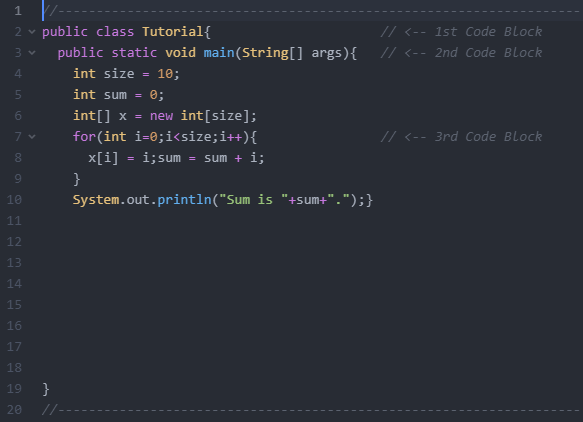
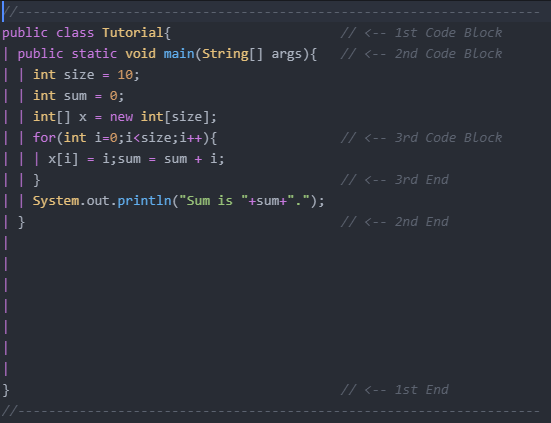
Module 1 Update

diff --git a/module1/module1.5.html b/module1/module1.5.html
@@ -1,85 +1,41 @@
 <!DOCTYPE html>
 <html lang="en">
 <head>
-<title>Open Fuego</title>
+<title>Code Structure</title>
 <meta charset="UTF-8">
 <meta name="viewport" content="width=device-width, initial-scale=1">
 <link rel="stylesheet" type="text/css" href="../style.css">
+</head>
 
-
-
-<script src="../codemirror/lib/codemirror.js"></script>
-<link rel="stylesheet" href="../codemirror/lib/codemirror.css">
-<link rel="stylesheet" href="../codemirror/theme/midnight.css">
-<script src="../codemirror/mode/clike/clike.js"></script>
-
-
-
-
-</head>  
-
-<!--Looks like you're ready to get going on your webpage. Good luck. Let's remember a few basic things.
-
-1. If you haven't worked through one of our Open Fuego introductory assignmnets (Electrate Fuego or I-Am-A-Project-In-Becoming), please do so. It will give you the basic skills to use this tool.
-2. File Management. Keep your asset names simple and one word.
-3. Make sure your assets names/file type match your code.
-4. Describe all images for accesibility purposes.
-5. Consult W3 when our code is not working for you.
-6. Control Z, Control Z, Control Z
-7. Publish, share, spread the Fuego!-->
-
-<!--BTW. You can leave these hidden HTML text fields be, or delete them. They are but road signs, absent from the larger design-->
 
 <body>
 
-<div>
-    <h2>Spaghetti Code</h2>
+    <div>
+      <h1><a href="../index.html">Spaghetti Code</a></h1>
+      <h2><a href="module1.1.html">Code Structure</a></h2>
     </div>
-
 
 <div class="flex-container">
   <div class="flex-item-left">
        <br>
-   <img src="../images/hero.png" alt="describe the image HERE for accessibility purposes" style="max-width:100%">
+   <img class="center-image" style="width:90%" src="module1.5.png" alt="description" style="max-width:100%">
     </div>
 
 
-	<div class="flex-item-right">
-       <div style="text-align: left">
-			<h3>Code Structure</h3>
-			<h6>The first and most important part of code structure is the Open-Close Rule. Every time you create an opening tag, such as '(', '[', or '{', you must remember to close that tag with it's partner tag ')', ']', or '}'. Depending on what language you write in, different objects will use different tags to determine functionality, so don't worry about jargon. Just focus on the structure.
-				Every function call should have a set of parenthesis '()' directly after the call. If I have a function named "foo", I would call it by typing "foo(argument1, argument2, etc)".
-				You access an array by typing "arrayName[i]" where i is the position of the element you want to access.
-				Several objects like conditional statements and function bodies get sectioned into blocks by using curly braces "{}".
-				Putting this all together, I might write a function like this:
-			</h6>
-
-			<img src="module1img1.jpg" alt="tutorial code for generic function foo" style="max-width:100%">
-
-			<h6>Notice how each tag gets a closing tag. But we can make this code more readable if we add some alignment. Alignment impacts the readability of your code immensely. The general rule is to indent all code within a code block. A code block is determined by an opening and closing curly brace '{}'. So, to align foo in such a manner, I would do this: </h6>
-
-			<img src="module1img2.jpg" alt="tutorial code for generic function foo" style="max-width:100%">
-
-			<h6>The function definition for foo comes before the first curly brace, and the code within foo gets indented. Then the closing curly brace goes in the same column as foo, not indented. This should apply for any number of nested code blocks.</h6>
-			<h6>Take a look at the next code block:</h6>
-
-			<img src="module1img3.jpg" alt="tutorial code for a full program" style="max-width:100%">
-
-			<h6>Here, we used the foo function we defined before to create an array and do some computations with it. When you separate sections of code within a block, others will find an easier time understanding the flow of your code. The general order of sections should be as follows:
-				<ol>
-					<li>Declarations</li>
-					<li>Computations</li>
-					<li>Return</li>
-				</ol>
-				To stay even more structured, be sure to add lines of white space between any major computations you may be performing. By following this general order, you can keep your code easy to change and understand. Now, let's take a look at some bad code and see what needs fixed.
-			</h6>
-			<a href="module1Q1.html"><center><button>Click to Start Module 1</button></center></a>
-		</div>
-    </div>
+  <div class="flex-item-right">
+  <div style="text-align: left">
+   <h3>Spacing</h3>
+    <h6>Programmers use spacing to make their code more readable. Implementing proper spacing requires little effort, but makes code even easier to understand.</h6>
+    <h6>Line spacing denotes a separation of instructions using 'newline' characters (hitting Enter on the keybaord several times). Programmers should put space between any 'sets' of instructions with different purposes. Most often these purposes fall into categories like creating variables, naming a function, or performing computations. Each set of instructions should have space between them to further clarify which instructions belong together.</h6>
+    <h6>Now that we implemented proper spacing and indenting, the code looks clean and aesthetically pleasing. But, not everyone can understand what it does. Good programmers use comments to make code understandable. Let's take a look at good commenting next.
+      <a href="module1.6.html"><center><button>Continue</button></center></a>
+  </div>
+  </div>
 </div>
+<div class="textblock" style="text-align: left">
    <footer>
     <div class="container">
-      <p>Copyright John Pepling, 2021.</p>
+      <p>Copyright Pepling 2021.</p>
       </div>
   </footer>
   </body>

diff --git a/module1/module1.6.html b/module1/module1.6.html
@@ -18,26 +18,24 @@
 <div class="flex-container">
   <div class="flex-item-left">
        <br>
-   <img src="module1.1.jpg" alt="description" style="max-width:100%">
+   <img class="center-image" style="width:90%" src="module1.6.png" alt="description" style="max-width:100%">
     </div>
 
 
   <div class="flex-item-right">
   <div style="text-align: left">
-   <h3>What is Code Structure?</h3>
-    <h6>Code Structure represents the physical arrangement of code within a program. Spaghetti code does work sometimes, but nobody can read it. Proper code structure makes use of several key components to make code easy for anyone to read and understand, even people who have no programming knowledge.<br>The main topics are:</h6>
-      <ul>
-        <li>Code Blocks</li>
-        <li>Alignment</li>
-        <li>Spacing</li>
-        <li>Comments</li>
-      </ul>
-    <h6>This module will explain each of these ideas in more depth. Click "Continue" to start learning about code blocks!</h6>
-      <a href="module1.2.html"><center><button>Continue</button></center></a>
+   <h3>Comments</h3>
+    <h6>Programmers use comments to make their code more understandable. Comments are sections of text that a computer will ignore, but that humans can still read. The best comments reside in 2 places:</h6>
+    <ul>
+      <li>At the start of a program</li>
+      <li>At the start of a computation</li>
+    </ul>
+    <h6>Comments should explain, in general terms, what a piece of code is, what it does, and (if applicable) how to customize it. Comments at the start of the program should also include the name of the programmer, a general overview of what the program is, and what functions the program uses. Functions are just a series of instructions that take one or more inputs and return an output. Functions should also have a comment to explain what to input, what function does to that input, and what it outputs.<br><br>Notice that the comments still follow the rules for alignment and spacing. And comments to the side of code should still align.</h6>
+      <a href="module1.end.html"><center><button>Continue</button></center></a>
   </div>
   </div>
 </div>
-
+<div class="textblock" style="text-align: left">
    <footer>
     <div class="container">
       <p>Copyright Pepling 2021.</p>

diff --git a/module1/module1.4.html b/module1/module1.4.html
@@ -18,7 +18,7 @@
 <div class="flex-container">
   <div class="flex-item-left">
        <br>
-   <img style="width:100%" src="module1.4.png" alt="description" style="max-width:100%">
+   <img class="center-image" style="width:90%" src="module1.4.png" alt="description" style="max-width:100%">
     </div>
 
 
@@ -26,14 +26,10 @@
   <div style="text-align: left">
    <h3>Nested Code Blocks</h3>
     <h6>
-      The picture
-    </h6>
-    <ul>
-      <li>Write each instruction on a new line</li>
-      <li>Each nested code block gets an additional indentation</li>
-    </ul>
-    <h6>These rules are much easier to explain visually, so let's take a look at an example piece of code on the next page.</h6>
-      <a href="module1.4.html"><center><button>Continue</button></center></a>
+      The picture on the left depicts a very small sample of code with three blocks of code. In this particular language, curly braces determine code blocks. Notice an opening curly brace at the end of each line that starts a new code block. Every line after that curly brace gets indented (shown by '|') until that code block ends. And every time a new code block begins <emphasis>within</emphasis> a code block, you must indent again. Following this method, you can trace the start of a code block straight down to its closing tag.</h6>
+      <h6>Instructions nested within 1 code block get 1 indentation.<br>Instructions nested within 2 code blocks get 2 indentations.<br>etc.</h6>
+      <h6>But this code sample looks cramped. Programmers can still tell which instructions go to what code block, but we can improve it with spacing.
+      <a href="module1.5.html"><center><button>Continue</button></center></a>
   </div>
   </div>
 </div>

diff --git a/module1/module1.3.html b/module1/module1.3.html
@@ -26,16 +26,16 @@
   <div style="text-align: left">
    <h3>Alignment</h3>
     <h6>
-      Good programmers will always align their code blocks to make sure other programmers can visually understand which
-      instructions go together. A computer, reading the instructions, will simply skip any extra space and execute instructions
-      left to right, top to bottom. A programmer, however, cannot quickly grasp which order the instructions will execute unless
-      they align those instructions appropriately. There are two important rules to follow here:
+      Good programmers will always align their code blocks to make sure other people can visually understand which
+      instructions go together. Computers can simply skip any extra space and execute instructions
+      left to right, top to bottom, jumping around as needed. People, however, cannot quickly grasp which order the instructions will execute unless
+      the instructions have proper structure. There are two important rules to follow for alignment:
     </h6>
     <ul>
       <li>Write each instruction on a new line</li>
       <li>Each nested code block gets an additional indentation</li>
     </ul>
-    <h6>These rules are much easier to explain visually, so let's take a look at an example piece of code on the next page.</h6>
+    <h6>Nested code blocks are much easier to explain visually, so let's take a look at an example piece of code on the next page.</h6>
       <a href="module1.4.html"><center><button>Continue</button></center></a>
   </div>
   </div>

diff --git a/Tutorial.java b/Tutorial.java
@@ -1,20 +1,42 @@
+/*
+Tutorial Program
+Author: John Pepling
+
+Description:
+	This program aims to demonstrate simple code structure practices
+	for people new to programming
+*/
+
 //--------------------------------------------------------------------
-public class Tutorial{											// <-- 1st Code Block
-	public static void main(String[] args){		// <-- 2nd Code Block
-		int size = 10;
-		int sum = 0;
-		int[] x = new int[size];
-		for(int i=0;i<size;i++){								// <-- 3rd Code Block
+public class Tutorial{
+
+	/*
+	main
+
+	Description:
+		The main body of code that a computer will execute in
+		the Java programming language.
+	*/
+	public static void main(String[] args){
+
+		// Create variables
+		int size = 10;						// Size of array x
+		int sum = 0;							// sum
+		int[] x = new int[size];	// array x with (size) elements
+
+		/*
+		places 0 in position 0, 1 in position 1, 2 in position 2, etc.
+		up to 9 in position 9
+		Sums the integers together
+		*/
+		for(int i=0;i<size;i++){
 			x[i] = i;sum = sum + i;
 		}
-		System.out.println("Sum is "+sum+".");}
 
+		// Prints the sum to the console
+		System.out.println("Sum is "+sum+".");
 
-
-
-
-
-
+	}
 
 }
 //--------------------------------------------------------------------
